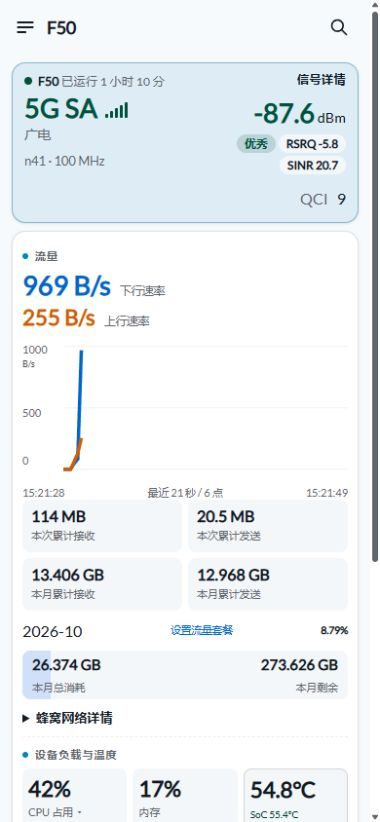
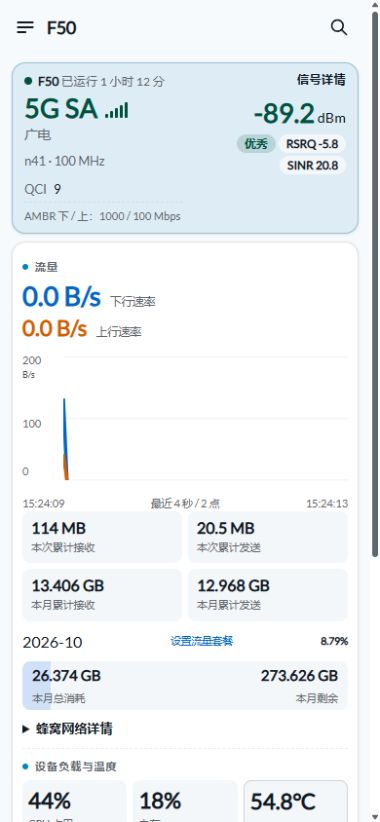
Refine hero layout with left-aligned QCI and network AMBR

diff --git a/extras/dashboard/home.js b/extras/dashboard/home.js
@@ -316,7 +316,7 @@ return view.extend({
   var heroRight=root.querySelector('.mud-hero-r');
   heroRight.prepend(E('div',{class:'f50-signal-title'},'信号详情'));
   var qci=root.querySelector('#mud-qci').parentNode;
-  qci.classList.add('f50-qci');heroRight.appendChild(qci);
+  qci.classList.add('f50-qci');root.querySelector('.mud-hero-l').appendChild(qci);root.querySelector('.mud-hero-l').appendChild(E('div',{id:'mud-hero-ambr',class:'f50-hero-ambr'},'AMBR 下 / 上：--'));
   var cols=link.querySelector('.mud-cols');var cellLine=root.querySelector('#mud-cellline');cellLine.replaceWith(E('div',{class:'f50-hero-band',id:'mud-hero-band'},'--'));cols.prepend(E('div',{class:'f50-cell-detail'},[E('b',{},'基站与小区'),cellLine]));wrap([cols],'蜂窝网络详情',cols);
   device.querySelector('h3').textContent='设备负载与温度';
   var kpis=device.querySelector('.mud-kpis'),extra=E('div',{class:'mud-kpis'});
@@ -352,7 +352,8 @@ return view.extend({
    .f50-home .f50-hero-band{font-size:.8rem;color:var(--text-muted,#666);margin-top:4px}
    .f50-home .f50-cell-detail{padding:4px 0;grid-column:1/-1}
    .f50-home .f50-cell-detail .mud-cellline{font-size:.8rem;margin-top:4px;overflow-wrap:anywhere}
-   .f50-home .f50-qci{font-size:1rem;justify-content:flex-end;gap:9px;margin-top:5px}
+   .f50-home .f50-hero-ambr{font-size:.7rem;line-height:1.4;margin-top:3px;overflow-wrap:anywhere;color:var(--text-muted,#666)}
+   .f50-home .f50-qci{font-size:.8rem;justify-content:flex-start;gap:7px;margin-top:5px}
    .f50-home .mud-hero-r .mud-rsrp{font-size:1.7rem;line-height:1.2}
    .f50-home .mud-hero-r .mud-chips{justify-content:flex-end;gap:4px;flex-wrap:wrap}
    .f50-home .mud-hero-r .mud-chip{font-size:.7rem;padding:3px 5px}
@@ -612,7 +613,7 @@ return view.extend({
 		M.set('bw', nrk && nrk.bw_mhz ? nrk.bw_mhz + ' MHz' : (c && c.lte && c.lte.bw) || '--');
 		var qos = c && c.qos;
 		M.set('qci', qos && qos.qci != null ? qos.qci : '--');
-		M.set('ambr', qos && qos.dl != null ? qos.dl + ' / ' + qos.ul + ' Mbps' : '--');
+		M.set('ambr', qos && qos.dl != null ? qos.dl + ' / ' + qos.ul + ' Mbps' : '--');M.set('hero-ambr',qos && qos.dl != null ? 'AMBR 下 / 上：'+qos.dl+' / '+(qos.ul != null?qos.ul:'--')+' Mbps':'AMBR 下 / 上：--');
 
 		var net = (i.net && (i.net.mobile || i.net.sipa_eth0)) || null;
 		if (net && this.lastNet && i.ts && this.lastNet.ts) {

diff --git a/docs/13-optional-dashboard.md b/docs/13-optional-dashboard.md
@@ -27,7 +27,7 @@
 - **状态颜色：** 流量、Wi-Fi、OpenClash 开启蓝色、关闭白色，不重复显示状态文字。性能模式（8核）红色、能效模式（全小核）绿色；自动 5G 蓝色、4G 绿色。切换制式显示 10 秒倒计时，尚未确认设置时显示“确认中”；运营商注册网络另计。
 - **更多操作：** “其他与重启”展开 Wi-Fi、信道、重启调制解调器、重启设备和切换到 Android。
 - **内存三行：** 内存、余 x.xG、共 x.xG，数值随系统更新；顶部保留占用百分比。
-- **展开看详情：** 首模块左侧显示制式、运营商简称（广电）和频段，基站、小区、PCI 与频点编号移入蜂窝详情；信号详情与 QCI 常显在右侧，标题小字号、信号强度数值与 5G SA 同字号；蜂窝连接、无线 / 局域网 / 设备参数折叠。蜂窝详情显示 SIM 提供的手机号。锁制式与频段按钮展开邻区与设置入口。
+- **展开看详情：** 首模块左侧显示制式、运营商简称（广电）和频段，基站、小区、PCI 与频点编号移入蜂窝详情；QCI 放在左侧频段下方，下面显示 AMBR 下 / 上速率上限（基站网络下发的会话限额，非实时吞吐）；信号详情常显在右侧，标题小字号、信号强度数值与 5G SA 同字号；蜂窝连接、无线 / 局域网 / 设备参数折叠。蜂窝详情显示 SIM 提供的手机号。锁制式与频段按钮展开邻区与设置入口。
 
 手机首模块与负载、快捷控制实拍：
 
